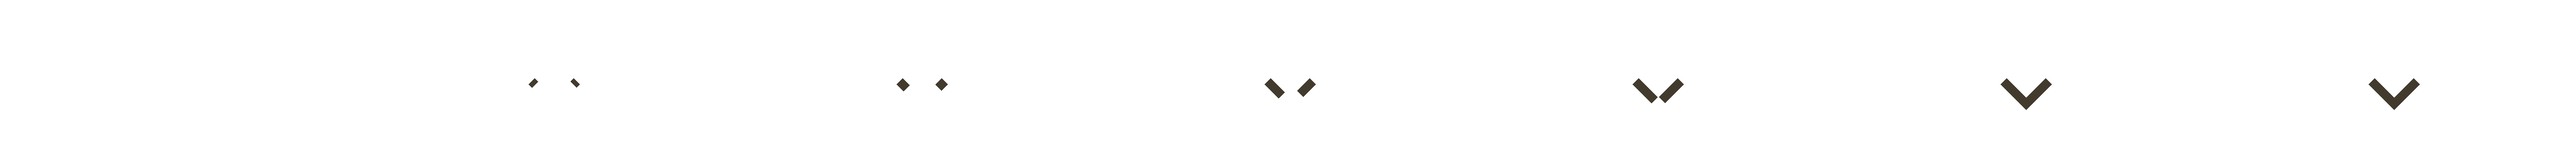
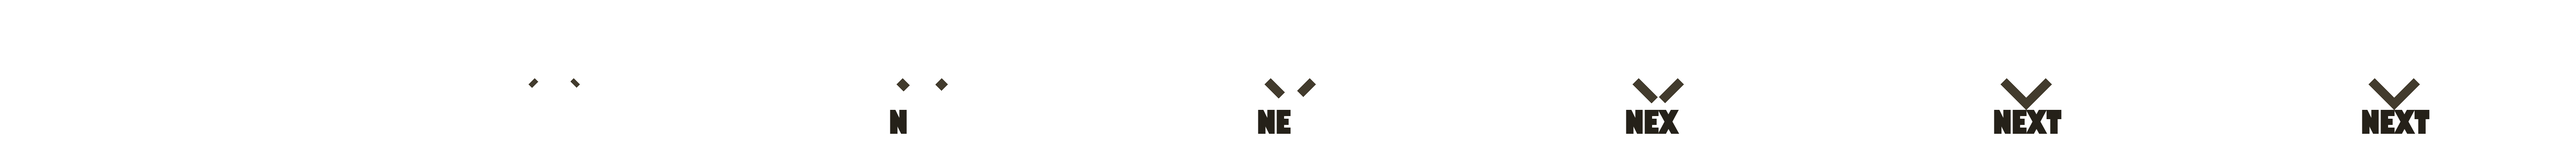
change: art dialog to next

diff --git a/Drakhtar/GameObjects/DialogScene.cpp b/Drakhtar/GameObjects/DialogScene.cpp
@@ -38,12 +38,14 @@ DialogScene::DialogScene(Scene* scene, const std::string& filename,
                         dialogueBackground->getRect().w - WIN_WIDTH / 12,
                     dialogueBackground->getRect().y - WIN_WIDTH / 70),
       Vector2D<int>(area.w * WIN_WIDTH / 8, area.h * WIN_HEIGHT / 20));
-  const auto arrow = new GameObject(
+  const auto arrow = new Button(
       scene_, TextureManager::get("UI-dialogueArrow"),
       Vector2D<int>(
           dialogueBackground->getRect().x + dialogueBackground->getRect().w / 2,
           dialogueBackground->getRect().y + 140),
-      Vector2D<int>(area.w * WIN_WIDTH / 8, area.h * WIN_HEIGHT / 10));
+      Vector2D<int>(area.w * WIN_WIDTH / 8, area.h * WIN_HEIGHT / 10), {}, " ",
+      "ButtonFont");
+  arrow->setTransparent(true);
   const auto skipButton = new Button(
       scene_, TextureManager::get("Button-Skip"),
       Vector2D<int>(static_cast<int>(dialogueBackground->getRect().x +
